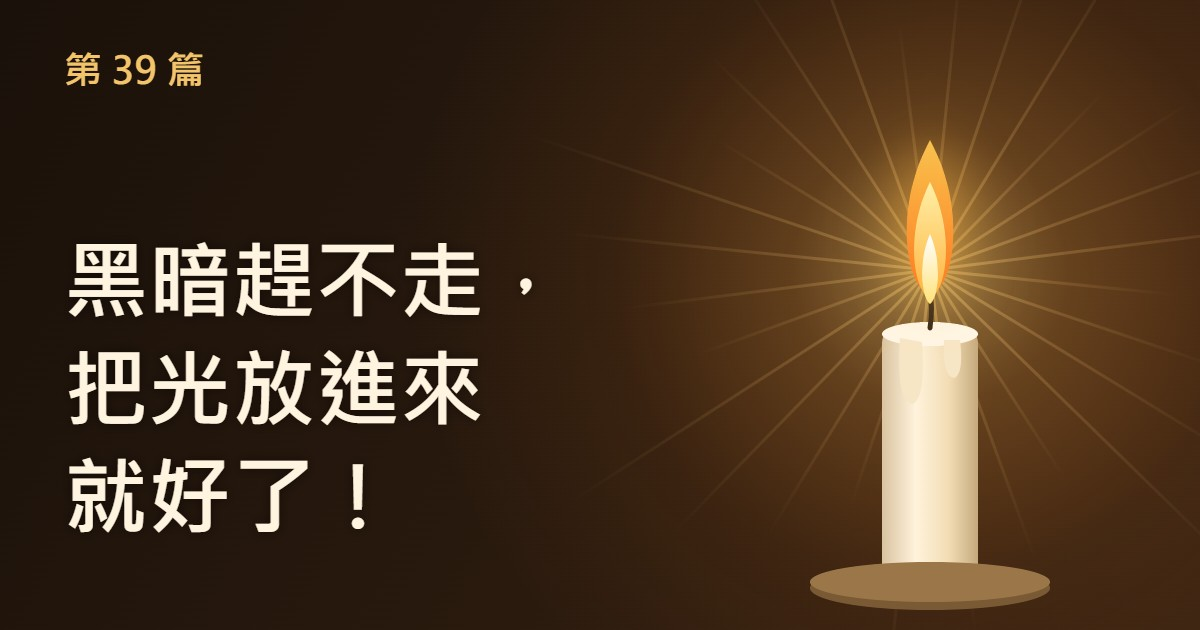
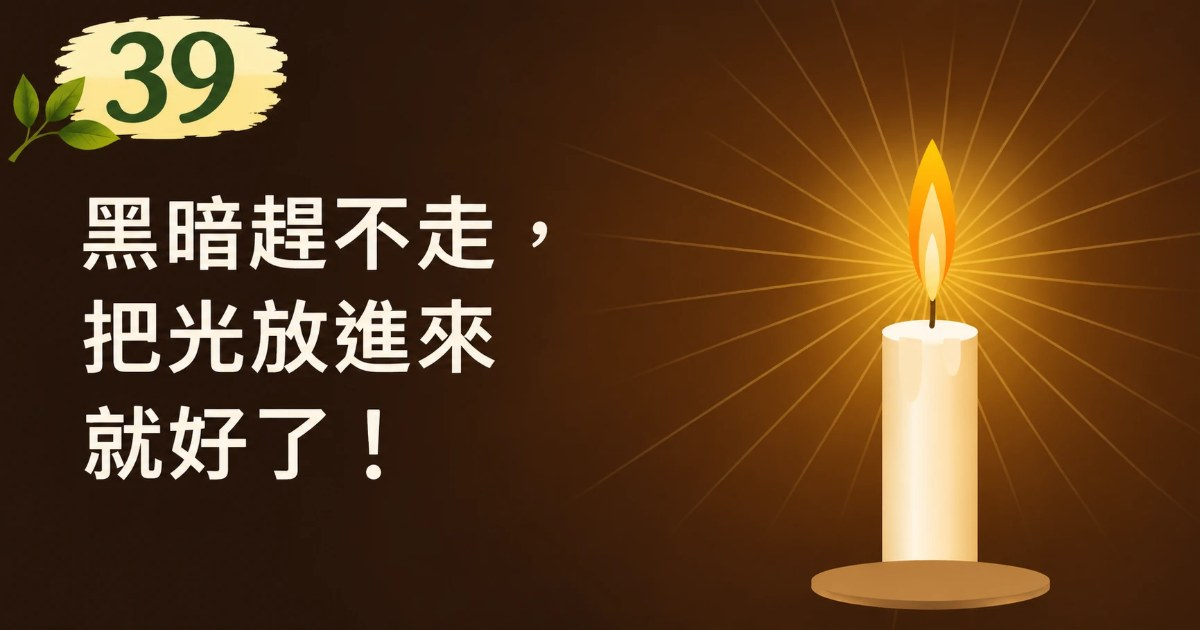
專欄第 39 篇換上雪媚製作的蠟燭封面圖，分享圖同步更新

diff --git a/column-light.html b/column-light.html
@@ -10,7 +10,7 @@
     <meta property="og:title" content="黑暗趕不走，把光放進來就好了！｜心路新路專欄第 39 篇">
     <meta property="og:description" content="比起消滅痛苦，更好的選擇是提升韌力。在黑暗中找路，最快的是找光。">
     <meta property="og:url" content="https://xinlu-may.github.io/column-light.html">
-    <meta property="og:image" content="https://xinlu-may.github.io/images/column-share-39.jpg">
+    <meta property="og:image" content="https://xinlu-may.github.io/images/column-share-39b.jpg">
     <meta property="og:image:width" content="1200">
     <meta property="og:image:height" content="630">
     <meta property="og:image:alt" content="點亮的蠟燭與文章標題：黑暗趕不走，把光放進來就好了！">
@@ -23,7 +23,7 @@
       "author": { "@type": "Person", "name": "邱雪媚" },
       "publisher": { "@type": "Organization", "name": "心路新路有限公司", "url": "https://xinlu-may.github.io/" },
       "datePublished": "2026-11-24",
-      "image": "https://xinlu-may.github.io/images/column-share-39.jpg",
+      "image": "https://xinlu-may.github.io/images/column-share-39b.jpg",
       "mainEntityOfPage": "https://xinlu-may.github.io/column-light.html"
     }
     </script>
@@ -64,7 +64,7 @@
     </nav>
 
     <article class="article">
-        <img src="images/column-share-39.jpg" width="1200" height="630" alt="點亮的蠟燭與文章標題：黑暗趕不走，把光放進來就好了！" style="width:100%;height:auto;border-radius:14px;margin:0 0 20px;display:block;box-shadow:0 6px 18px rgba(60,40,20,.25);">
+        <img src="images/column-share-39b.jpg" width="1200" height="630" alt="點亮的蠟燭與文章標題：黑暗趕不走，把光放進來就好了！" style="width:100%;height:auto;border-radius:14px;margin:0 0 20px;display:block;box-shadow:0 6px 18px rgba(60,40,20,.25);">
         <div class="tag">心路新路專欄｜第 39 篇</div>
         <h1>黑暗趕不走，把光放進來就好了！</h1>
         <div class="byline">文／邱雪媚老師</div>
